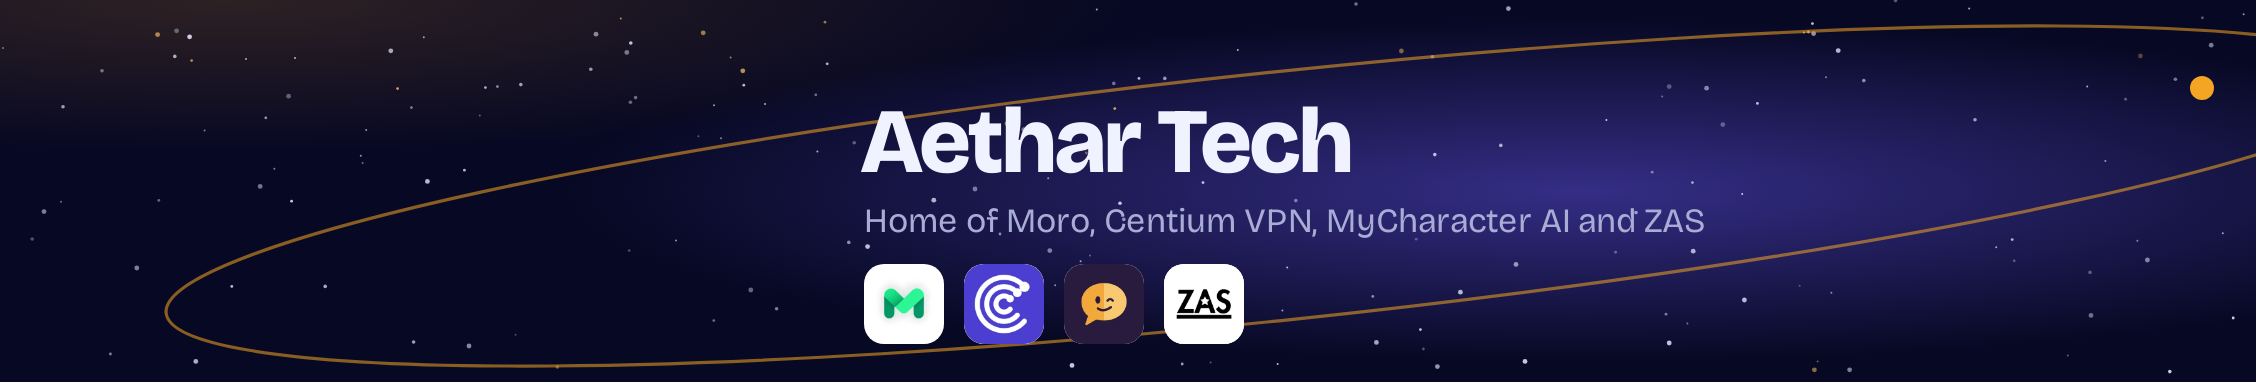
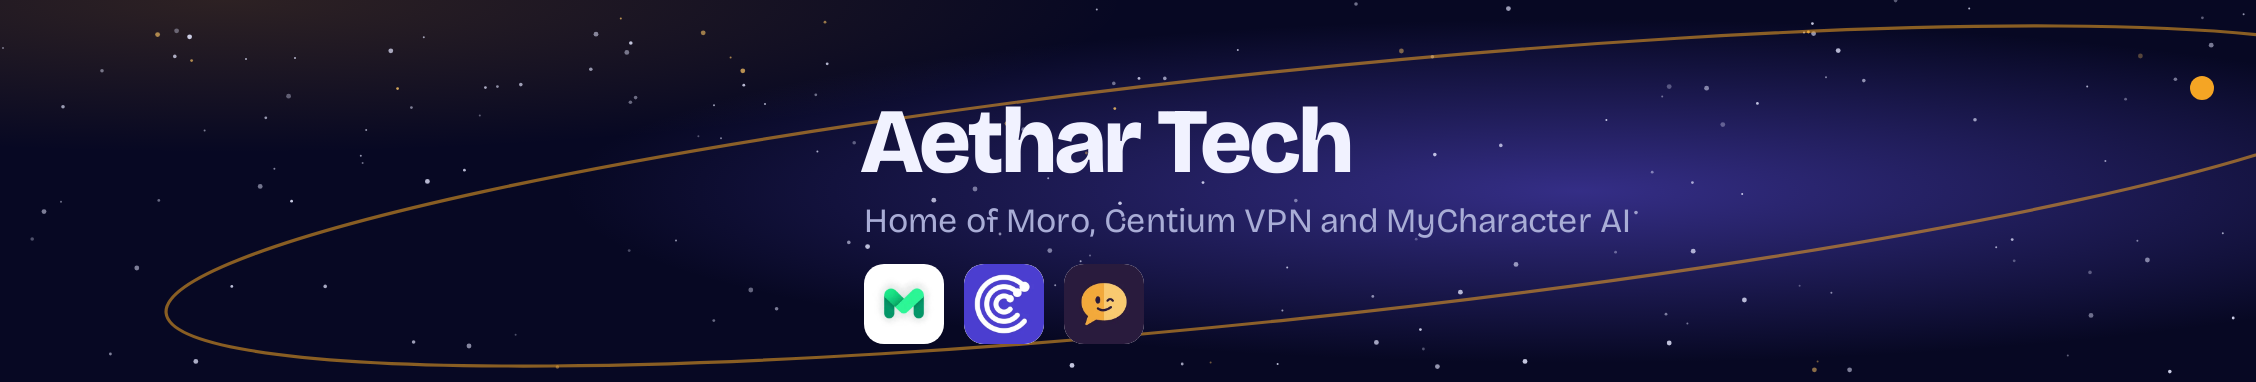
List ZAS as partner work, not an Aethar Tech product
ZAS belongs to the Zimbabwe Astronomical Society; Aethar Tech built the
app. It moves to a 'Made for partners' section, is dropped from the
'Home of' line, product bar and preview images, and its structured data
names the Society as publisher.

Changed region(s): [[0.5895, 0.5471, 0.7757, 0.6335], [0.4965, 0.6911, 0.5585, 0.9215]]

diff --git a/src/App.jsx b/src/App.jsx
@@ -1,5 +1,5 @@
 import { useEffect, useRef } from 'react'
-import { COMPANY_LINKEDIN, FOUNDER_LINKEDIN, projects } from './site.js'
+import { COMPANY_LINKEDIN, FOUNDER_LINKEDIN, partnerProjects, projects } from './site.js'
 
 const reducedMotion = () =>
   typeof window !== 'undefined' && window.matchMedia('(prefers-reduced-motion: reduce)').matches
@@ -257,7 +257,7 @@ export default function App() {
                 <span className="rise" style={{ '--d': 0 }}>Aethar Tech</span>
               </h1>
               <p className="hero-sub rise" style={{ '--d': 1 }}>
-                Home of Moro, Centium VPN, MyCharacter AI and ZAS.
+                Home of Moro, Centium VPN and MyCharacter AI.
               </p>
               <p className="hero-lede rise" style={{ '--d': 2 }}>
                 We dream up our own products and take each one all the way from the first idea to the phone in your hand.
@@ -278,16 +278,22 @@ export default function App() {
           {projects.map((p, i) => <World key={p.id} p={p} index={i} />)}
         </div>
 
+        <section className="partners-intro" aria-labelledby="partners-title">
+          <h2 id="partners-title">Made for partners</h2>
+          <p>We also design and build apps for organisations we believe in.</p>
+        </section>
+        {partnerProjects.map((p, i) => <World key={p.id} p={p} index={projects.length + i} />)}
+
         <section id="about" className="about" aria-labelledby="about-title">
           <h2 id="about-title">One company, many worlds</h2>
           <p className="about-lede">
             Aethar Tech is an independent technology company. Every product starts as one of our own ideas,
-            and we design, build and launch it ourselves. Four are live today, and more are on the way.
+            and we design, build and launch it ourselves. Three are live today, more are on the way, and we built the ZAS app for the Zimbabwe Astronomical Society.
           </p>
           <div className="values">
             <div>
               <h3>Made for real phones</h3>
-              <p>Our apps keep working on slow or patchy data. ZAS reads lessons offline and works out the sky on the phone itself.</p>
+              <p>Our apps are made for slow or patchy data. MyCharacter AI still saves a reply if you leave the app halfway through it.</p>
             </div>
             <div>
               <h3>Private by default</h3>
@@ -314,7 +320,7 @@ export default function App() {
       <footer className="site-footer">
         <p>© {new Date().getFullYear()} Aethar Tech · <a href={COMPANY_LINKEDIN} target="_blank" rel="noopener">LinkedIn</a></p>
         <ul aria-label="Our projects">
-          {projects.map((p) => (
+          {[...projects, ...partnerProjects].map((p) => (
             <li key={p.id}><a href={p.url} target="_blank" rel="noopener">{p.name}</a></li>
           ))}
         </ul>

diff --git a/index.html b/index.html
@@ -3,9 +3,9 @@
   <head>
     <meta charset="UTF-8" />
     <meta name="viewport" content="width=device-width, initial-scale=1" />
-    <title>Aethar Tech | Home of Moro, Centium VPN, MyCharacter AI and ZAS</title>
+    <title>Aethar Tech | Home of Moro, Centium VPN and MyCharacter AI</title>
     <script>document.documentElement.classList.add('js')</script>
-    <meta name="description" content="Aethar Tech is an independent technology company and the home of Moro loyalty rewards, Centium VPN over Tor, MyCharacter AI and the ZAS astronomy app." />
+    <meta name="description" content="Aethar Tech is an independent technology company and the home of Moro loyalty rewards, Centium VPN over Tor and MyCharacter AI." />
     <link rel="canonical" href="__SITE_URL__/" />
     <meta name="robots" content="index, follow, max-image-preview:large" />
     <meta name="theme-color" content="#070823" />
@@ -13,16 +13,16 @@
 
     <meta property="og:type" content="website" />
     <meta property="og:site_name" content="Aethar Tech" />
-    <meta property="og:title" content="Aethar Tech | Home of Moro, Centium VPN, MyCharacter AI and ZAS" />
-    <meta property="og:description" content="An independent technology company and the home of Moro, Centium VPN, MyCharacter AI and ZAS." />
+    <meta property="og:title" content="Aethar Tech | Home of Moro, Centium VPN and MyCharacter AI" />
+    <meta property="og:description" content="An independent technology company and the home of Moro, Centium VPN and MyCharacter AI." />
     <meta property="og:url" content="__SITE_URL__/" />
     <meta property="og:image" content="__SITE_URL__/og-image.png" />
     <meta property="og:image:width" content="1200" />
     <meta property="og:image:height" content="630" />
     <meta property="og:image:alt" content="The Aethar Tech logo: a blue letter A circled by an amber orbit" />
     <meta name="twitter:card" content="summary_large_image" />
-    <meta name="twitter:title" content="Aethar Tech | Home of Moro, Centium VPN, MyCharacter AI and ZAS" />
-    <meta name="twitter:description" content="An independent technology company and the home of Moro, Centium VPN, MyCharacter AI and ZAS." />
+    <meta name="twitter:title" content="Aethar Tech | Home of Moro, Centium VPN and MyCharacter AI" />
+    <meta name="twitter:description" content="An independent technology company and the home of Moro, Centium VPN and MyCharacter AI." />
     <meta name="twitter:image" content="__SITE_URL__/og-image.png" />
 
     <link rel="icon" href="/favicon.svg" type="image/svg+xml" />

diff --git a/src/styles.css b/src/styles.css
@@ -17,6 +17,7 @@
 *::after { box-sizing: border-box; }
 
 html { scroll-behavior: smooth; }
+[id] { scroll-margin-top: 80px; }
 
 body {
   margin: 0;
@@ -143,7 +144,7 @@ p { margin: 0; }
   background-clip: text;
   color: transparent;
 }
-.hero-sub { margin-top: 22px; font-size: clamp(1.25rem, 2.4vw, 1.75rem); font-weight: 650; }
+.hero-sub { text-wrap: balance; margin-top: 22px; font-size: clamp(1.25rem, 2.4vw, 1.75rem); font-weight: 650; }
 .hero-lede { margin-top: 14px; max-width: 40ch; color: var(--soft); font-size: clamp(1.05rem, 1.6vw, 1.2rem); }
 
 /* Product bar: one tile per project, like a game switcher */
@@ -152,7 +153,7 @@ p { margin: 0; }
   max-width: var(--wrap);
   margin: clamp(40px, 7vh, 72px) auto 0;
   display: grid;
-  grid-template-columns: repeat(4, 1fr);
+  grid-template-columns: repeat(3, 1fr);
   gap: 12px;
 }
 .product-bar a {
@@ -285,6 +286,14 @@ p { margin: 0; }
 .js .world .world-text > :nth-child(4) { transition-delay: .24s; }
 .js .world .world-text > :nth-child(n+5) { transition-delay: .32s; }
 
+/* Partner work: a quiet heading between our own products and apps made for others */
+.partners-intro {
+  padding: clamp(72px, 9vw, 120px) max(var(--gutter), calc((100vw - var(--wrap)) / 2)) 0;
+  background: var(--night-2);
+}
+.partners-intro h2 { font-size: clamp(2.25rem, 5vw, 3.5rem); font-weight: 800; }
+.partners-intro p { margin-top: 12px; color: var(--soft); font-size: 1.15rem; }
+
 /* About */
 .about {
   padding: clamp(80px, 11vw, 150px) max(var(--gutter), calc((100vw - var(--wrap)) / 2));
@@ -336,7 +345,6 @@ p { margin: 0; }
 @media (max-width: 900px) {
   .hero-inner { grid-template-columns: 1fr; text-align: left; }
   .hero-mark { max-width: 200px; justify-self: start; }
-  .product-bar { grid-template-columns: repeat(2, 1fr); }
   .world { grid-template-columns: 1fr; min-height: 0; }
   .world-flip .world-text { order: 0; }
   .fan { height: 440px; }
@@ -344,6 +352,7 @@ p { margin: 0; }
 }
 @media (max-width: 560px) {
   .site-header nav a:not(:last-child) { display: none; }
+  .product-bar { grid-template-columns: 1fr; }
   .product-bar a { padding: 12px; gap: 10px; font-size: .95rem; }
   .product-bar img { width: 36px; height: 36px; }
   .fan { height: 380px; }

diff --git a/src/site.js b/src/site.js
@@ -56,11 +56,16 @@ export const projects = [
     category: 'EntertainmentApplication',
     os: 'Android',
   },
+]
+
+// Apps we made for other organisations. They are listed, but not as our own products.
+export const partnerProjects = [
   {
     id: 'zas',
     name: 'ZAS',
     tagline: 'The southern sky, from Zimbabwe.',
-    kind: 'Astronomy',
+    kind: 'Made for the Zimbabwe Astronomical Society',
+    owner: 'Zimbabwe Astronomical Society',
     url: 'https://zas-explore-universe.web.app',
     apk: `${RELEASES}/zas-v0.1.0/zas-astronomy-0.1.0-arm64.apk`,
     icon: '/img/zas.webp',
@@ -68,7 +73,7 @@ export const projects = [
     color: '#FFFFFF',
     glow: '#1A1F4D',
     summary:
-      'The official app of the Zimbabwe Astronomical Society. See what’s up tonight over your town, catch every eclipse and meteor shower, and earn certificates as you learn the stars.',
+      'We designed and built the official app of the Zimbabwe Astronomical Society. It shows what’s up tonight over your town, every eclipse and meteor shower, and short courses with certificates.',
     platforms: ['Android', 'Web'],
     category: 'EducationalApplication',
     os: 'Android, Web',

diff --git a/src/entry-server.jsx b/src/entry-server.jsx
@@ -2,7 +2,7 @@ import { StrictMode } from 'react'
 import { renderToString } from 'react-dom/server'
 import App from './App.jsx'
 
-export { SITE_URL, COMPANY_LINKEDIN, projects } from './site.js'
+export { SITE_URL, COMPANY_LINKEDIN, projects, partnerProjects } from './site.js'
 
 export function render() {
   return renderToString(<StrictMode><App /></StrictMode>)
